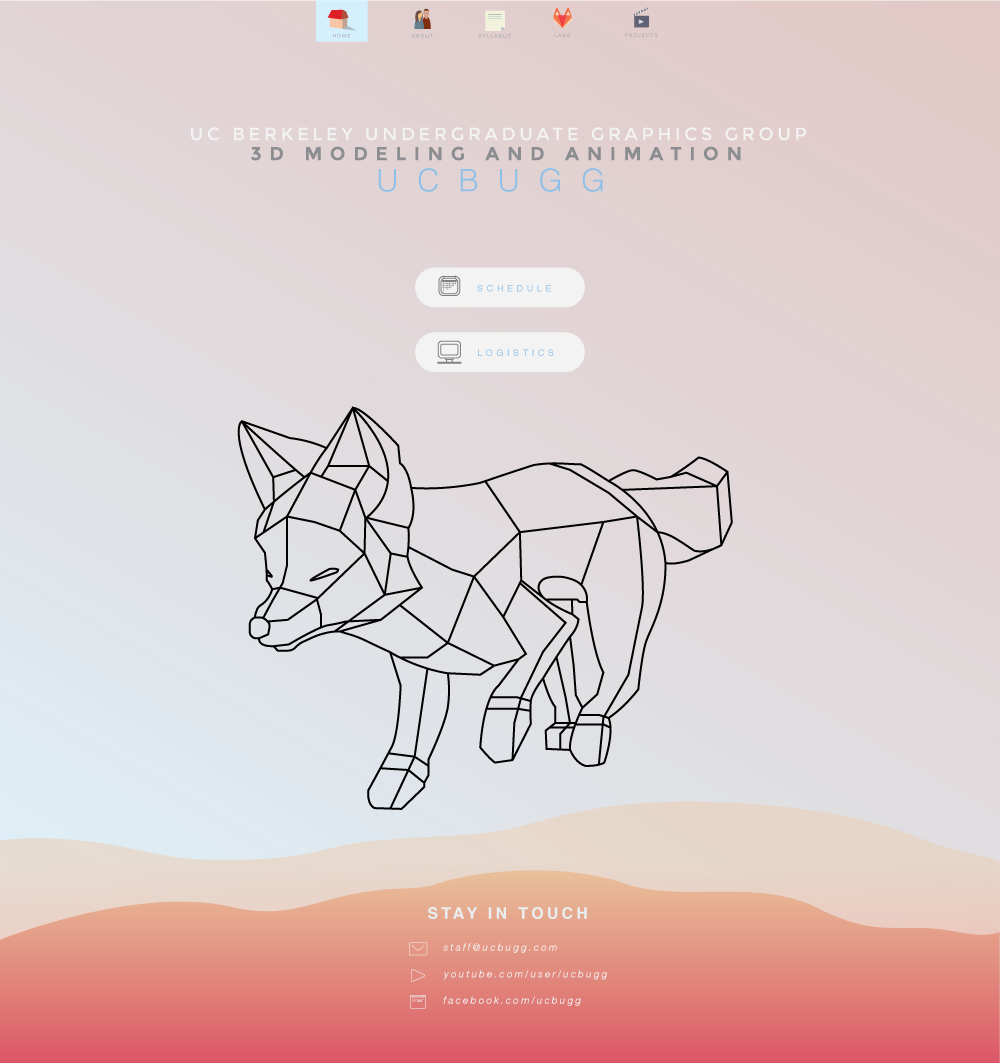
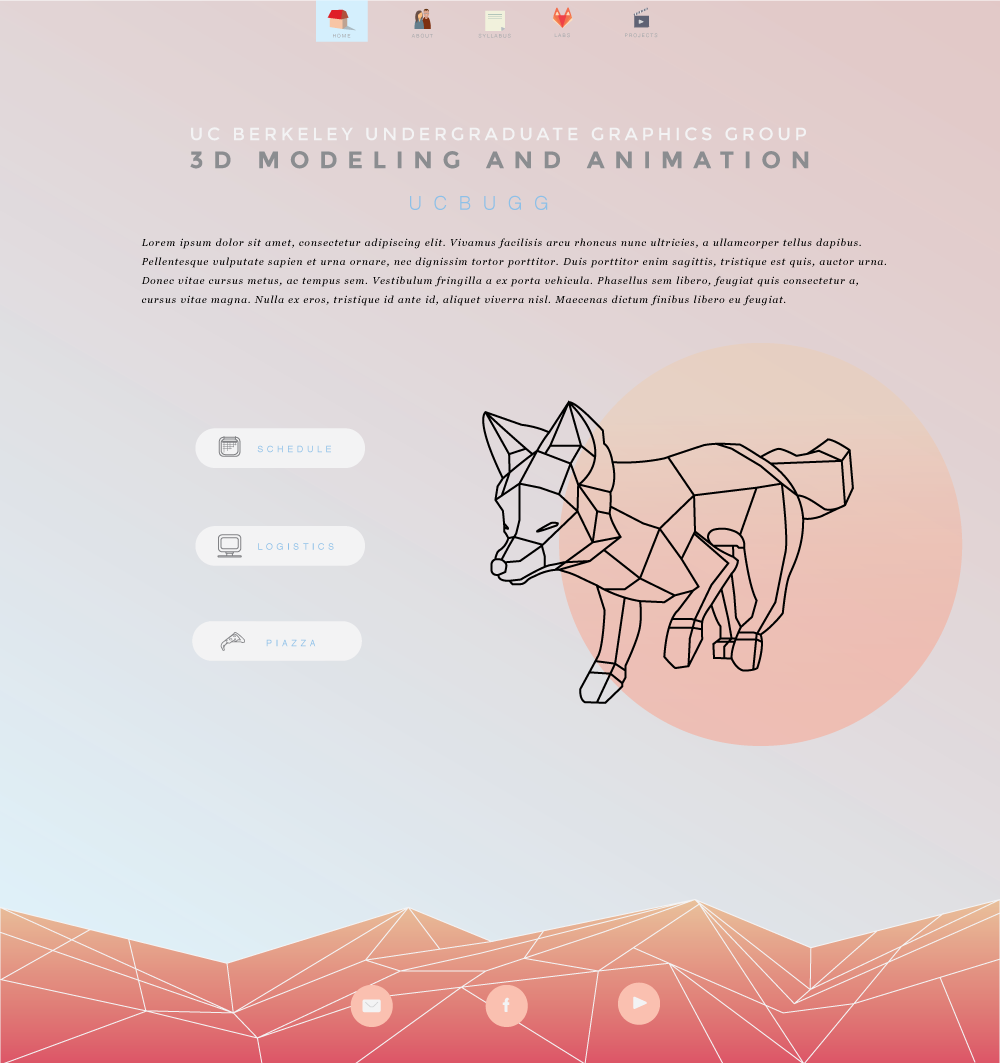
updated homepage design + new footer design

diff --git a/styles/main.css b/styles/main.css
@@ -118,7 +118,7 @@ div.info-button {
 	width: 220px;
 	margin: 0 auto;
 	margin-top: 20px;
-	padding: 3px;
+	padding: 5px;
 }
 img.info-icon {
 	width:40px;
